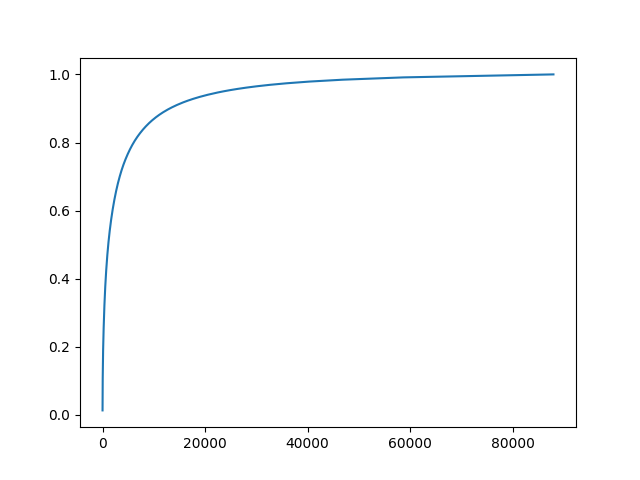
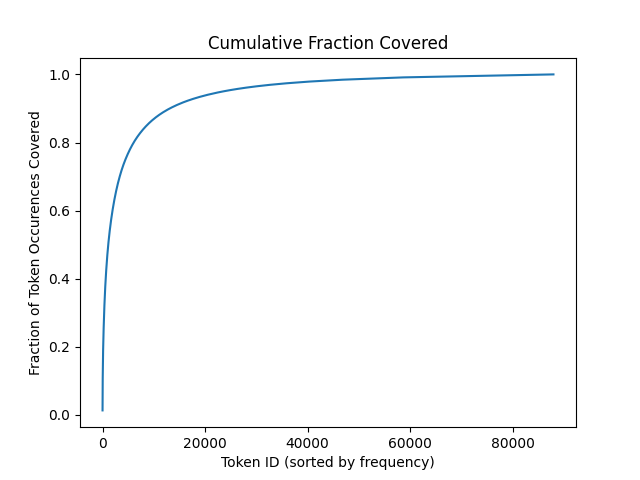
Added plot labels

Changed region(s): [[0.3125, 0.0625, 0.7188, 0.125], [0.0312, 0.2188, 0.0625, 0.7812], [0.3438, 0.9375, 0.6875, 1.0]]

diff --git a/assignment1/Vocabulary.py b/assignment1/Vocabulary.py
@@ -116,7 +116,10 @@ class Vocabulary:
         id_range = range(0, len(sorted_tokens))
         
         plt.plot(id_range, sorted_tokens)
+        plt.title("Token Frequency Distribution")
+        plt.ylabel("Frequency")
         plt.yscale("log")
+        plt.xlabel("Token ID (sorted by frequency)")
         plt.savefig("frequency")
         plt.clf()
         plt.close()
@@ -124,10 +127,10 @@ class Vocabulary:
         total_freq = sum(sorted_tokens)
         percentage = np.cumsum(np.array(sorted_tokens) / total_freq)
         
-        print(total_freq)
-        print(percentage)
-        
         plt.plot(id_range, percentage)
+        plt.title("Cumulative Fraction Covered")
+        plt.ylabel("Fraction of Token Occurences Covered")
+        plt.xlabel("Token ID (sorted by frequency)")
         plt.savefig("fraction")
         plt.clf()
         plt.close()
